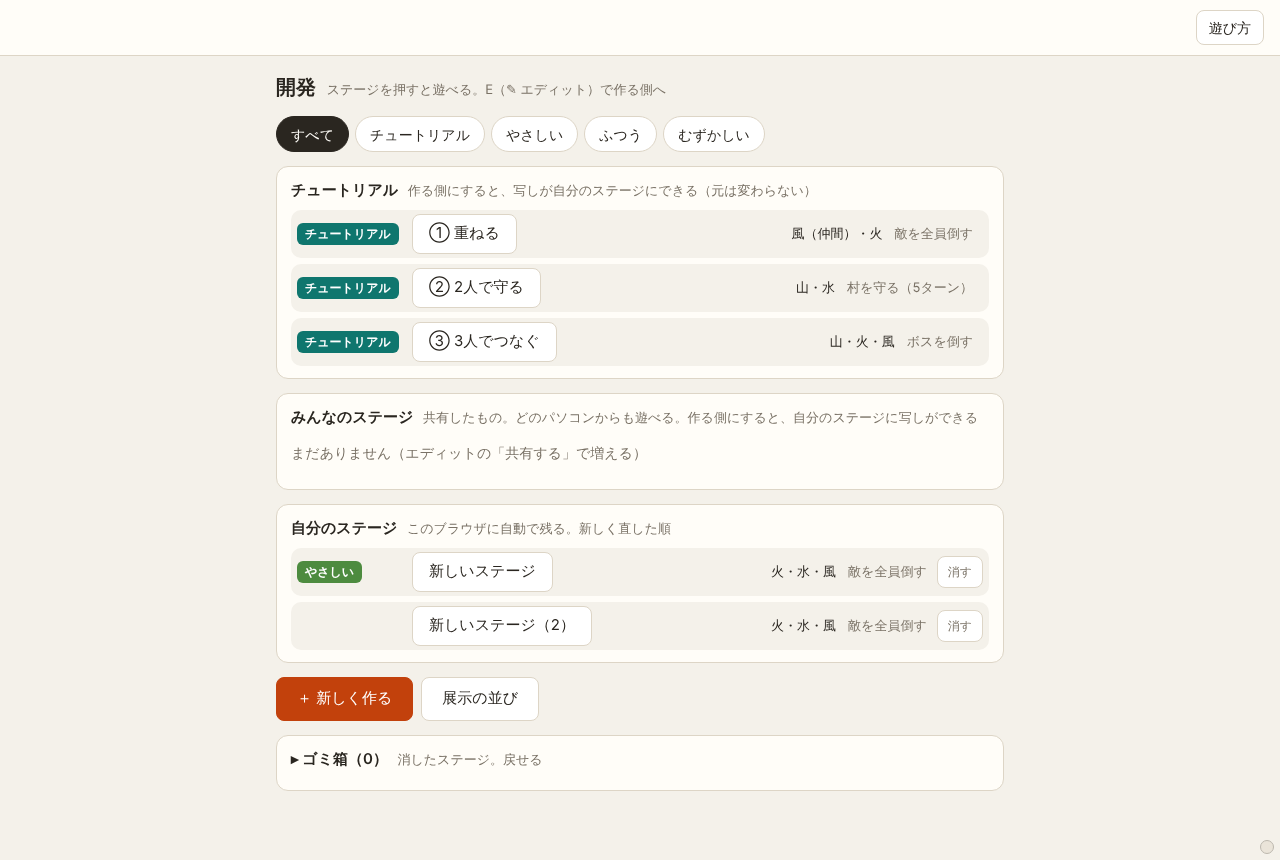
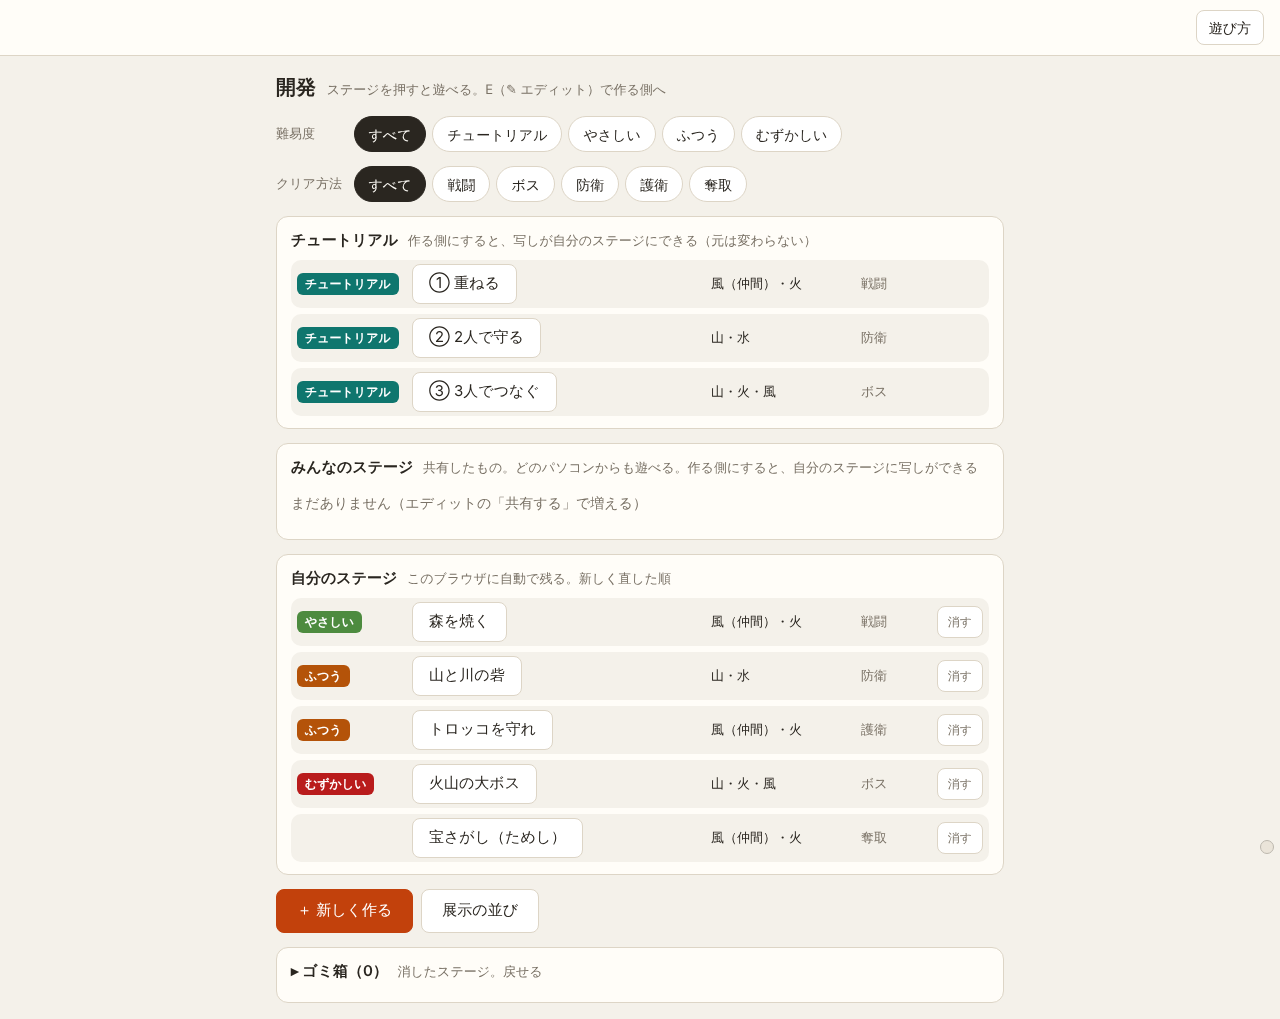
ステージ一覧: 列の縦をそろえる・クリア方法は区分の短い名前（戦闘・ボス・防衛・護衛・奪取）で、札でも絞れる（オーナー 11/03）
オーナー: 縦軸を揃えて欲しい。村を守る(5ターン)→防衛、戦闘・ボス・護衛・奪取・破壊などで分けられる。ステージタイトルの左に難易度ラベルがあるのはいい（11/03）。
- 列の幅を決めて、どの行・どの欄でも縦がそろう（難易度・タイトル・使う魔法・クリア方法・消す。消すのない行も列を空けておく）。狭い画面は2段（1段目 難易度・タイトル・消す、2段目 クリア方法・使う魔法）で、どちらの段もそろう
- クリア方法は区分の短い名前（stages_io.js の WIN_KINDS・winKind）。破壊は今のゲームに勝ち方がないので、できたら足す
- 一覧の上の札を2段に: 難易度／クリア方法。両方で絞れて、選んだ札は覚える
- 確かめ: 1280 幅と 390 幅で、クリア方法の列の左端がすべての行で同じ・はみ出しなし・エラーなし。tests 6つとも成功（stages 133）
- docs: 画面構成（一覧・札。最初の画面の写真を撮り直した）

Claude-Session: https://claude.ai/code/session_0126TnhiWZqa4bpKNEMMMZkb

diff --git a/game/ui.js b/game/ui.js
@@ -47,6 +47,7 @@
   var STAGE_KEY = 'cafilia-mock-stages-v1';       // 自分のステージ { 名前: { def, texts, exKeep, at } }。直すたびに自動で残す（IMPROVE_v3 段0）
   var TRASH_KEY = 'cafilia-mock-trash-v1';        // 自分のステージのゴミ箱 { 鍵: { name, rec, deletedAt } }（オーナー 11/03。IMPROVE_ステージ一覧 段3）
   var FILTER_KEY = 'cafilia-mock-home-filter';    // 開発の最初の画面で選んだ難易度の札（'' はすべて）
+  var WIN_FILTER_KEY = 'cafilia-mock-home-win';   // 同じく、クリア方法の札
   var DRAFT_KEY = 'cafilia-mock-stage-draft';     // 前の作りかけ { cur, prev }。段0で自分のステージに移した（元は消さずに残す）
   var MIGRATED_KEY = 'cafilia-mock-stages-migrated';   // 前の作りかけ・前の保存を移したしるし { at, moved, failed }
   // 【育つ】つながると1枚の大きな絵になる自然（名前は見た目だけ）
@@ -2585,32 +2586,37 @@
   SIO.DIFFICULTIES.forEach(function (d, i) { DIFF_ORDER[d.id] = i; });
   function diffName(id) { var d = SIO.DIFFICULTIES.filter(function (x) { return x.id === id; })[0]; return d ? d.name : ''; }
   function homeRows(items, empty) {
-    var f = app.homeFilter;
+    var f = app.homeFilter, wf = app.homeWin;
     var list = items.map(function (it, i) { return { it: it, i: i }; })
-      .filter(function (x) { return !f || x.it.diff === f; })
+      .filter(function (x) { return (!f || x.it.diff === f) && (!wf || SIO.winKind(x.it.def) === wf); })
       .sort(function (a, b) {
         var da = a.it.diff ? DIFF_ORDER[a.it.diff] : 99, db = b.it.diff ? DIFF_ORDER[b.it.diff] : 99;
         return da - db || a.i - b.i;
       });
-    if (!list.length) return empty || (f && items.length) ? '<p class="muted">' + esc(f && items.length ? 'この難易度のステージはありません' : empty) + '</p>' : '';
+    var narrowed = (f || wf) && items.length;
+    if (!list.length) return empty || narrowed ? '<p class="muted">' + esc(narrowed ? 'この条件のステージはありません' : empty) + '</p>' : '';
     return '<div class="home-rows">' + list.map(function (x) {
       var it = x.it;
       return '<div class="home-row">' +
         '<span class="diff-tag' + (it.diff ? ' diff-' + it.diff : ' diff-none') + '">' + esc(diffName(it.diff)) + '</span>' +
         '<button type="button" class="home-stage home-title" data-open="' + esc(it.open) + '">' + esc(SIO.plainTitle(it.title)) + '</button>' +
-        '<span class="home-meta"><span class="home-magic" title="使う魔法">' + esc(SIO.magicsOf(R, it.def)) + '</span>' +
-        '<span class="home-win" title="クリア方法">' + esc(SIO.winLabel(R, it.def)) + '</span></span>' +
-        (it.del || '') + '</div>';
+        '<span class="home-magic" title="使う魔法">' + esc(SIO.magicsOf(R, it.def)) + '</span>' +
+        '<span class="home-win" title="クリア方法">' + esc(SIO.winLabel(R, it.def)) + '</span>' +
+        (it.del || '<span class="row-btns"></span>') + '</div>';   // 消すがない行も、列をそろえるために空けておく
     }).join('') + '</div>';
   }
-  function homeFilterSaved() { try { return window.localStorage.getItem(FILTER_KEY) || ''; } catch (e) { return ''; } }
-  app.homeFilter = DIFF_ORDER[homeFilterSaved()] !== undefined ? homeFilterSaved() : '';
+  function savedPick(k) { try { return window.localStorage.getItem(k) || ''; } catch (e) { return ''; } }
+  app.homeFilter = DIFF_ORDER[savedPick(FILTER_KEY)] !== undefined ? savedPick(FILTER_KEY) : '';
+  app.homeWin = SIO.WIN_KINDS.some(function (w) { return w.id === savedPick(WIN_FILTER_KEY); }) ? savedPick(WIN_FILTER_KEY) : '';
+  // 絞る札: 1段目は難易度、2段目はクリア方法（戦闘・ボス・防衛・護衛・奪取。オーナー 11/03）。両方で絞れる
   function filterChips() {
-    var f = app.homeFilter;
-    return '<div class="home-filter" role="group" aria-label="難易度で分ける">' +
-      [['', 'すべて']].concat(SIO.DIFFICULTIES.map(function (d) { return [d.id, d.name]; })).map(function (c) {
-        return '<button type="button" class="chip' + (c[0] === f ? ' on' : '') + '" data-filter="' + c[0] + '" aria-pressed="' + (c[0] === f) + '">' + esc(c[1]) + '</button>';
-      }).join('') + '</div>';
+    var row = function (label, attr, now, opts) {
+      return '<div class="home-filter" role="group" aria-label="' + label + 'で分ける"><span class="filter-label">' + label + '</span>' +
+        [['', 'すべて']].concat(opts.map(function (d) { return [d.id, d.name]; })).map(function (c) {
+          return '<button type="button" class="chip' + (c[0] === now ? ' on' : '') + '" ' + attr + '="' + c[0] + '" aria-pressed="' + (c[0] === now) + '">' + esc(c[1]) + '</button>';
+        }).join('') + '</div>';
+    };
+    return row('難易度', 'data-filter', app.homeFilter, SIO.DIFFICULTIES) + row('クリア方法', 'data-wfilter', app.homeWin, SIO.WIN_KINDS);
   }
   // ゴミ箱（オーナー 11/03。IMPROVE_ステージ一覧 段3）: 自分のステージはこのブラウザ（TRASH_KEY）、みんなのステージは共有の置き場所
   function trashStore() { try { var raw = window.localStorage.getItem(TRASH_KEY); return raw ? JSON.parse(raw) : {}; } catch (e) { return null; } }
@@ -2631,8 +2637,8 @@
     return '<section class="home-sec home-trash"><h3><button type="button" class="trash-toggle" data-trash-toggle="1" aria-expanded="' + !!app.trashOpen + '">' +
       (app.trashOpen ? '▾' : '▸') + ' ゴミ箱（' + items.length + '）</button> <small>消したステージ。戻せる</small></h3>' +
       (!app.trashOpen ? '' : items.length ? '<div class="home-rows">' + items.map(function (it) {
-        return '<div class="home-row"><span class="diff-tag diff-none">' + esc(it.where) + '</span><span class="home-title trash-name">' + esc(it.name) + '</span>' +
-          '<span class="home-meta"><span>' + esc(fmtTime(it.at)) + ' に消した</span></span>' +
+        return '<div class="home-row trash-row"><span class="diff-tag diff-none">' + esc(it.where) + '</span><span class="home-title trash-name">' + esc(it.name) + '</span>' +
+          '<span class="trash-at">' + esc(fmtTime(it.at)) + ' に消した</span>' +
           '<span class="row-btns"><button type="button" data-tr-restore="' + esc(it.ref) + '">戻す</button>' +
           '<button type="button" class="home-del" data-tr-purge="' + esc(it.ref) + '">完全に消す</button></span></div>';
       }).join('') + '</div>' : '<p class="muted">空です</p>') + '</section>';
@@ -2813,6 +2819,12 @@
     if (b.hasAttribute('data-filter')) {
       app.homeFilter = b.getAttribute('data-filter');
       try { window.localStorage.setItem(FILTER_KEY, app.homeFilter); } catch (er) { /* 覚えられなくても絞れる */ }
+      renderHome();
+      return;
+    }
+    if (b.hasAttribute('data-wfilter')) {
+      app.homeWin = b.getAttribute('data-wfilter');
+      try { window.localStorage.setItem(WIN_FILTER_KEY, app.homeWin); } catch (er) { /* 覚えられなくても絞れる */ }
       renderHome();
       return;
     }

diff --git a/game/style.css b/game/style.css
@@ -1018,16 +1018,21 @@ body.at-home .topbar .buttons > :not(#btnHowto) { display: none !important; }
 .home-own .home-del { border-top-left-radius: 0; border-bottom-left-radius: 0; border-left: none; padding: 0 10px; color: var(--muted); font-size: 12px; }
 .home-new { align-self: flex-start; min-height: 44px; padding: 6px 20px; font-size: 15px; }
 /* 一覧: 1行に1つ（オーナー 11/03。IMPROVE_ステージ一覧 段2）。難易度の札・タイトル・使う魔法・クリア方法・消す */
-.home-filter { display: flex; flex-wrap: wrap; gap: 6px; }
+.home-filter { display: flex; flex-wrap: wrap; align-items: center; gap: 6px; }
+.home-filter .filter-label { width: 5.5em; font-size: 13px; color: var(--muted); }
 .home-filter .chip { min-height: 36px; padding: 4px 14px; border-radius: 999px; font-size: 14px; }
 .home-filter .chip.on { background: var(--ink); color: var(--panel); border-color: var(--ink); }
 .home-rows { display: flex; flex-direction: column; gap: 6px; }
-.home-row { display: grid; grid-template-columns: 7.5em minmax(0, 1fr) auto auto; align-items: center; gap: 4px 10px;
+/* 列の幅を決めて、どの行・どの欄でも縦がそろうようにする（オーナー 11/03「縦軸を揃えて」）: 難易度・タイトル・使う魔法・クリア方法・消す */
+.home-row { display: grid; grid-template-columns: 7.5em minmax(0, 1fr) 10em 3.5em 4.5em; align-items: center; gap: 4px 10px;
   padding: 4px 6px; border-radius: 10px; background: var(--bg); }
+.home-row .home-magic { font-size: 13px; color: var(--ink); }
+.home-row .home-win { font-size: 13px; color: var(--muted); }
+.home-row .row-btns { justify-self: end; }
+.home-row.trash-row { grid-template-columns: 7.5em minmax(0, 1fr) 10em auto; }
+.trash-at { font-size: 13px; color: var(--muted); }
 .home-row .home-title { justify-self: start; min-height: 40px; max-width: 100%; text-align: left; overflow-wrap: anywhere; }
 .home-row .trash-name { font-size: 15px; padding: 0 4px; }
-.home-meta { display: flex; flex-wrap: wrap; gap: 4px 12px; color: var(--muted); font-size: 13px; }
-.home-magic { color: var(--ink); }
 .row-btns { display: inline-flex; gap: 6px; }
 .row-btns .home-del { color: var(--muted); font-size: 12px; padding: 0 10px; min-height: 32px; }
 .diff-tag { justify-self: start; padding: 2px 8px; border-radius: 6px; font-size: 12px; font-weight: 600; white-space: nowrap; color: #fff; }
@@ -1039,10 +1044,16 @@ body.at-home .topbar .buttons > :not(#btnHowto) { display: none !important; }
 .diff-none { background: var(--line); color: var(--ink); }
 .home-note { margin: 0; padding: 6px 10px; border-radius: 8px; background: #fef3c7; font-size: 14px; }
 .trash-toggle { border: none; background: none; padding: 0; font: inherit; font-weight: 600; cursor: pointer; color: var(--ink); }
-/* 狭い画面では、使う魔法とクリア方法を2段目に回す */
+/* 狭い画面では2段: 1段目 難易度・タイトル・消す、2段目 クリア方法（難易度の下）・使う魔法（タイトルの下）。どちらの段も縦にそろう */
 @media (max-width: 640px) {
-  .home-row { grid-template-columns: auto minmax(0, 1fr) auto; }
-  .home-row .home-meta { grid-column: 1 / -1; grid-row: 2; }
+  .home-row { grid-template-columns: 6.4em minmax(0, 1fr) auto; }
+  .home-row .diff-tag { font-size: 11px; }
+  .home-row .home-win { grid-column: 1; grid-row: 2; padding-left: 4px; }
+  .home-row .home-magic { grid-column: 2; grid-row: 2; }
+  .home-row .row-btns { grid-column: 3; grid-row: 1; }
+  .home-row.trash-row { grid-template-columns: 4em minmax(0, 1fr) auto; }
+  .home-row.trash-row .trash-at { grid-column: 2; grid-row: 2; }
+  .home-filter .filter-label { width: 100%; }
 }
 /* 展示モードの最初の画面・ありがとう！・クリア！・選んで遊ぶ（IMPROVE_v3 段3）: 真ん中に大きく */
 html.mode-exhibit .home { align-items: center; text-align: center; margin-top: 12vh; }

diff --git a/game/stages_io.js b/game/stages_io.js
@@ -277,18 +277,22 @@
     });
     return out.join('・');
   }
-  // クリア方法: 勝ち方の短い名前（村を守るはターン数も）
-  function winLabel(R, def) {
+  // クリア方法の区分（オーナー 11/03「戦闘・ボス・防衛・護衛・奪取・破壊などで分けられる」）。一覧の列と、絞る札に使う。
+  //   破壊は、その勝ち方ができたらここに足す（今のゲームにはまだない）
+  var WIN_KINDS = [
+    { id: 'battle', name: '戦闘' },
+    { id: 'boss', name: 'ボス' },
+    { id: 'defense', name: '防衛' },
+    { id: 'escort', name: '護衛' },
+    { id: 'retrieve', name: '奪取' }
+  ];
+  function winKind(def) {
     if (!def) return '';
-    if (def.ex) return 'ボスを倒す';
-    if (def.mission === 'defense') {
-      var ov = def.overrides || {};
-      return '村を守る（' + (ov[OV_TURNS] !== undefined ? ov[OV_TURNS] : R.BALANCE.mission.defense.turns) + 'ターン）';
-    }
-    if (def.mission === 'escort') return 'トロッコをゴールへ';
-    if (def.mission === 'retrieve') return '宝を持ち帰る';
-    return '敵を全員倒す';
+    if (def.ex) return 'boss';
+    if (def.mission === 'defense' || def.mission === 'escort' || def.mission === 'retrieve') return def.mission;
+    return 'battle';
   }
+  function winLabel(R, def) { var k = winKind(def), w = WIN_KINDS.filter(function (x) { return x.id === k; })[0]; return w ? w.name : ''; }
   // 名前に入っている区分の印（【チュートリアル】など）は、一覧では難易度の札に任せて外す
   function plainTitle(name) { return String(name || '').replace(/^【[^】]*】\s*/, ''); }
 
@@ -348,7 +352,7 @@
   }
 
   var api = {
-    PREFIX: PREFIX, WINS: WINS, DIFFICULTIES: DIFFICULTIES, diffOf: diffOf, magicsOf: magicsOf, winLabel: winLabel, plainTitle: plainTitle,
+    PREFIX: PREFIX, WINS: WINS, DIFFICULTIES: DIFFICULTIES, diffOf: diffOf, magicsOf: magicsOf, winLabel: winLabel, winKind: winKind, WIN_KINDS: WIN_KINDS, plainTitle: plainTitle,
     trashPut: trashPut, trashRestore: trashRestore, toDef: toDef, build: build, checkDef: checkDef, fits: fits, resize: resize,
     winOf: winOf, setWin: setWin, turnsOf: turnsOf, setHp: setHp,
     blankTexts: blankTexts, linesToText: linesToText, textToLines: textToLines, toFile: toFile, fromFile: fromFile, clone: clone

diff --git a/tests/stages.js b/tests/stages.js
@@ -74,7 +74,9 @@ eq(S.fromFile(R, S.toFile({ name: '難易度つき', def: dd })).def.difficulty,
 eq(S.checkDef(R, Object.assign({}, dd, { difficulty: 'super' })), '知らない難易度がある', '知らない難易度は読まない');
 eq([S.magicsOf(R, R.findPreset('tut1')), S.magicsOf(R, R.findPreset('tut2')), S.magicsOf(R, R.findPreset('ex3'))], ['風（仲間）・火', '山・水', '山・火・風'], '使う魔法（構える味方は「仲間」）');
 eq([S.winLabel(R, R.findPreset('tut1')), S.winLabel(R, R.findPreset('tut2')), S.winLabel(R, R.findPreset('ex3')), S.winLabel(R, S.toDef(R, S.setWin(R, s3, 'defense', 7), 'x'))],
-  ['敵を全員倒す', '村を守る（5ターン）', 'ボスを倒す', '村を守る（7ターン）'], 'クリア方法');
+  ['戦闘', '防衛', 'ボス', '防衛'], 'クリア方法は区分の短い名前（オーナー 11/03）');
+eq(S.WIN_KINDS.map(function (w) { return w.name; }), ['戦闘', 'ボス', '防衛', '護衛', '奪取'], 'クリア方法の区分');
+eq([S.winKind({ rows: [], mission: 'escort' }), S.winKind({ rows: [], mission: 'retrieve' }), S.winKind({ rows: [] })], ['escort', 'retrieve', 'battle']);
 eq([S.plainTitle('【チュートリアル】① 重ねる'), S.plainTitle('森の道')], ['① 重ねる', '森の道'], '名前の区分の印は一覧では外す');
 
 // 自分のステージのゴミ箱（オーナー 11/03。IMPROVE_ステージ一覧 段3）

diff --git a/docs/画面構成.md b/docs/画面構成.md
@@ -89,12 +89,12 @@
 
 ![開発の最初の画面](img/03_開発の最初の画面.png)
 
-- **一覧は1行に1つ**（オーナー 11/03）: 難易度の札・タイトル・使う魔法・クリア方法・消す。
+- **一覧は1行に1つ**（オーナー 11/03）: 難易度の札・タイトル・使う魔法・クリア方法・消す。列の幅は決まっていて、どの行・どの欄でも縦がそろう（狭い画面では2段: 1段目 難易度・タイトル・消す、2段目 クリア方法・使う魔法）。
   - 難易度: チュートリアル／やさしい／ふつう／むずかしい（エディットの「ステージ」の欄で選ぶ。決めていないものは札なし）。
   - 使う魔法: 味方の魔法から自動で出る。構える味方（指示できない仲間）の魔法は「（仲間）」。
-  - クリア方法: 勝ち方から自動で出る（村を守るはターン数も）。
+  - クリア方法: 勝ち方から自動で出る短い名前（戦闘・ボス・防衛・護衛・奪取。破壊は勝ち方ができたら足す）。
   - タイトル: 名前に区分の印（【チュートリアル】など）が付いていれば、一覧では外す（札に任せる）。
-- **難易度で分ける**: 一番上の札（すべて・チュートリアル・やさしい・ふつう・むずかしい）を押すと、その難易度だけになる。選んだ札は覚える。どの欄も難易度の順（札なしは最後）に並ぶ。
+- **難易度・クリア方法で分ける**: 一番上の2段の札（難易度: すべて・チュートリアル・やさしい・ふつう・むずかしい／クリア方法: すべて・戦闘・ボス・防衛・護衛・奪取）を押すと、それだけになる（両方で絞れる）。選んだ札は覚える。どの欄も難易度の順（札なしは最後）に並ぶ。
 - **チュートリアル**: ①②③（難易度はチュートリアル）。押すと遊べる。作る側（エディット）にすると、写しが自分のステージになる（元は変わらない）。
 - **みんなのステージ**: エディットの「共有する」で置いたもの。どのパソコンからも遊べる（Cloudflare に置く）。
 - **自分のステージ**: このブラウザに自動で残る。新しく直した順。
